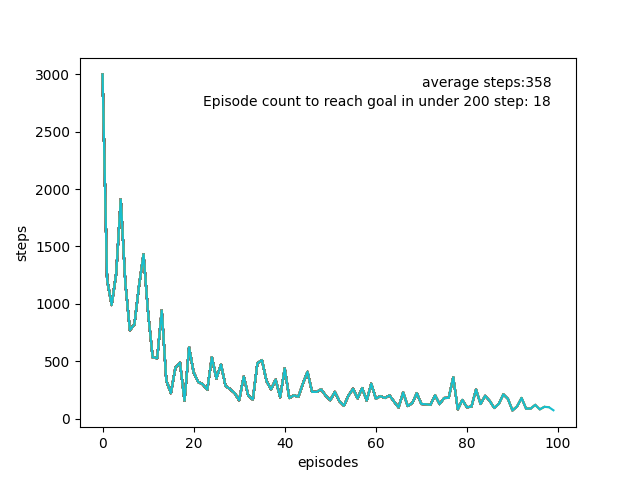
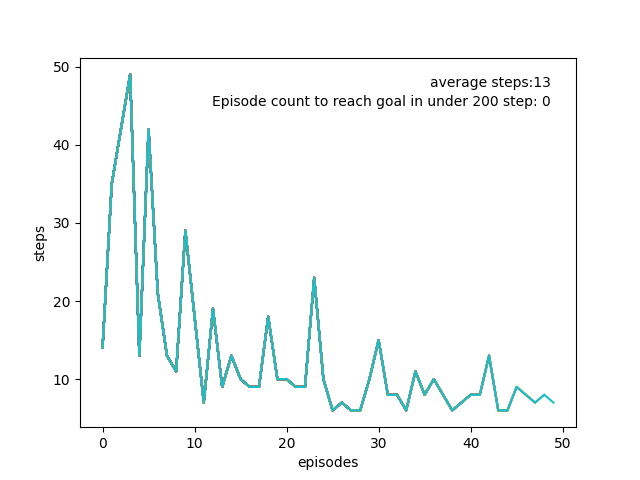
デバッグまでのテスト

diff --git a/simple_maze/q_learning.py b/simple_maze/q_learning.py
@@ -1,0 +1,113 @@
+import numpy as np
+import copy
+import datetime
+import matplotlib.pyplot as plt
+
+episode_list = [] 
+step_list = []
+
+class QLearning:
+    def __init__(self, maze):
+        self.maze = maze
+        row, col = self.maze.get_board_size()
+        self.num_state = row * col
+        self.action_list = [0, 1, 2, 3]
+        self.num_action = 4
+        self.Q = np.zeros((self.num_state, self.num_action))
+        self.state = self.get_state()
+        self.avg_annotation = None   
+        self.annotated_flag = False
+
+    def from_start(self):
+        self.maze.reset()
+        self.state = self.get_state()
+
+    def step(self, learning_rate, discount_rate, random_rate):
+        action = self.select_action(random_rate)
+        self.maze.move(action)
+        next_state = self.get_state() # 移動後の状態を取得
+        next_best_action = self.select_best_action()
+        self.Q[self.state][action] += learning_rate * (
+            self.reward() 
+            + discount_rate * self.Q[next_state][next_best_action]
+            - self.Q[self.state][action]
+        )
+        self.state = next_state # 現在の状態Sを更新
+
+    def get_state(self):
+        """2次元の迷路を1次元に軽量化し、状態として取得"""
+        _, col = self.maze.get_board_size()
+        x, y = self.maze.get_position()
+        return x * col + y
+    
+    def reward(self):
+        if self.maze.is_goal():
+            return 1
+        elif self.maze.is_penalty_point():
+             return -1
+        elif self.maze.is_start():
+            return -1
+        elif self.maze.is_goal():
+            return 1
+        else:
+            return -1
+
+
+    def select_action(self, random_rate=0.01):
+        if np.random.rand() < random_rate:
+            best_action = self.select_best_action()
+            random_action_list = [i for i in self.action_list if i != best_action]
+            return np.random.choice(random_action_list)
+        return self.select_best_action()
+    
+    def select_best_action(self):
+        return self.Q[self.state, :].argmax() # self.state行目の全ての列を選択
+    
+    def visualize_q_value(self):
+        board = copy.deepcopy(self.maze.board)
+        state = self.get_state()
+        for i in range(len(board)): 
+            for j in range(len(board[i])):
+                if board[i][j] == " ":
+                    best_direction = self.Q[state, :].argmax()
+                    if best_direction == 0:
+                        arrow = "↑"
+                    elif best_direction == 1:
+                        arrow = "↓"
+                    elif best_direction == 2:
+                        arrow = "←"
+                    else:
+                        arrow = "→"
+                    board[i][j] = arrow
+        return board
+    
+    def save_q_value(self, filename, episode, step):
+        board_with_arrows = self.visualize_q_value()
+        with open(filename, "w") as file:
+            file.write(f"実行時刻: {datetime.datetime.now()}\n")
+            file.write(f"episode: {episode}\n")
+            file.write(f"step: {step}\n\n")
+            for row in board_with_arrows:
+                file.write("".join(row) + "\n")
+    
+    def plot_learning_hisotry(self, filename, episode, step):
+        episode_list.append(episode)
+        step_list.append(step)
+        # 折れ線グラフを描画
+        plt.xlabel("episodes")
+        plt.ylabel("steps")
+        plt.plot(episode_list, step_list)
+        # 平均ステップ数を注釈に追加
+        avg_steps = f"average steps:{int(sum(step_list) / len(step_list))}"
+        if self.avg_annotation is not None:
+            self.avg_annotation.remove()
+        self.avg_annotation = plt.annotate(avg_steps, xy=(0.95, 0.95), xycoords="axes fraction", ha="right", va="top")
+        # 200step数以下に達したら一度だけ注釈を追加
+        if not self.annotated_flag:
+            for i, value in enumerate(step_list):
+                if value <= 200:
+                    annotation_text = f"Episode count to reach goal in under 200 step: {i}"
+                    plt.annotate(annotation_text, xy=(0.95, 0.9), xycoords="axes fraction", ha='right', va='top')
+                    self.annotated_flag = True
+                    break
+        plt.savefig(filename)

diff --git a/simple_maze/maze.py b/simple_maze/maze.py
@@ -1,0 +1,87 @@
+import copy
+
+BOARD = [
+    ["W", "W", "W",	"W", "W", "W", "W", "W", "W", "W", "W", "W", "W", "W", "W", "W", "W", "W", "W",	"W", "W", "W", "W"],
+    ["W", "S", " ", " ", " ", " ", " ",	" ", " ", " ", " ", "P", "W", "P", "W", "W", " ", " ", " ", "W", " ", "P", "W"],
+    ["W", " ", "W", "W", "W", "W", "W",	"W", "C", "W", "W", "W", " ", " ", "W", " ", " ", "W", "W", "W", " ", "W", "W"],
+    ["W", " ", " ", " ", "C", " ", " ",	" ", " ", " ", " ", " ", " ", " ", "W", " ", " ", " ", " ", " ", " ", " ", "W"],
+    ["W", " ", "W", "W", " ", "W", " ",	"W", "W", "W", "W", "C", "W", "W", " ", " ", "W", "W", "W", " ", " ", "W", "W"],
+    ["W", " ", "W", " ", " ", "W", "W",	"W", " ", "W", " ", " ", " ", " ", "W", " ", " ", "W", "P", " ", " ", " ", "W"],
+    ["W", " ", "W", " ", " ", " ", " ",	"C", " ", "W", "W", "W", " ", " ", "W", " ", "W", "W", "W", "W", " ", "W", "W"],
+    ["W", " ", "W", " ", " ", "W", "P",	"W", " ", " ", "W", " ", " ", "W", "W", " ", " ", "C", "W", " ", "C", " ", "W"],
+    ["W", " ", "W", " ", "W", "W", "W",	"W", " ", "W", "W", "W", "C", " ", "W", "W", "W", " ", "W", "W", "W", " ", "W"],
+    ["W", " ", "W", "C", " ", "W", " ",	"W", " ", "W", " ", " ", " ", "W", "W", " ", "W", " ", "W", " ", " ", " ", "W"],
+    ["W", " ", "W", " ", " ", " ", " ",	" ", "C", " ", "W", "W", " ", " ", "C", " ", " ", " ", " ", " ", " ", " ", "W"],
+    ["W", "C", " ", " ", "W", " ", "W",	" ", "W", " ", " ", "C", " ", " ", "W", " ", " ", "W", " ", " ", "W", "C", "W"],
+    ["W", "W", "W", " ", " ", " ", " ",	" ", "W", "W", " ", "W", "W", " ", "W", "W", "W", "W", " ", "W", "W", " ", "W"],
+    ["W", "P", " ", " ", "W", " ", "W",	" ", " ", "P", "W", "W", "P", " ", "W", "P", " ", " ", " ", "C", " ", "G", "W"],
+    ["W", "W", "W",	"W", "W", "W", "W", "W", "W", "W", "W", "W", "W", "W", "W", "W", "W", "W", "W",	"W", "W", "W", "W"],
+]
+
+class Maze:
+    def __init__(self):
+        self.board = BOARD
+        self.rows_count = len(BOARD)
+        self.cols_count = len(BOARD[0])
+        self.start_pos = None
+        self.goal_pos = None
+        for i in range(self.rows_count):
+            for j in range(self.cols_count):
+                if self.board[i][j] == "S":
+                    self.start_pos = (i, j)
+                elif self.board[i][j] == "G":
+                    self.goal_pos = (i, j)
+        self.agent_pos = self.start_pos
+    
+    def draw(self):
+        print("\x1b[2J\x1b[H") # 画面全体をクリア
+        for i in range(self.rows_count):
+            for j in range(self.cols_count):
+                if [i, j] == self.agent_pos:
+                    print("A", end="")
+                else:
+                    print(self.board[i][j], end="")
+            print(" ")  # 改行
+    
+    def get_board_size(self):
+        return self.rows_count, self.cols_count
+
+    def get_position(self):
+        return self.agent_pos
+    
+    def is_start(self):
+        x, y = self.start_pos
+        return self.board[x][y] == "S"
+
+    def is_goal(self):
+        x, y = self.agent_pos
+        return self.board[x][y] == "G"
+    
+    def is_checkpoint(self):
+        x, y = self.agent_pos
+        if self.board[x][y] == "C":
+            self.board[x][y] = " "
+            return True
+        return False
+
+    def is_penalty_point(self):
+        x, y = self.agent_pos
+        if self.board[x][y] == "P":
+            self.board[x][y] = " "
+            return True
+        return False
+    
+    def move(self, action):
+        x, y = self.agent_pos
+        if action == 0 and self.board[x-1][y] != "W":
+            self.agent_pos[0] -= 1
+        if action == 1 and self.board[x+1][y] != "W":
+            self.agent_pos[0] += 1
+        if action == 2 and self.board[x][y-1] != "W":
+            self.agent_pos[1] -= 1
+        if action == 3 and self.board[x][y+1] != "W":
+            self.agent_pos[1] += 1
+
+    def reset(self):
+        self.agent_pos = list(self.start_pos)
+        self.board = copy.deepcopy(BOARD) # このメソッドはここだけ変更

diff --git a/simple_maze/main.py b/simple_maze/main.py
@@ -1,0 +1,40 @@
+from maze import Maze
+
+import time   # 追加
+
+from q_learning import QLearning   # 追加
+
+def main():
+
+	  ## Q学習で必要な条件
+    
+    # 何回ゴールするか
+    EPISODE_MAX = 50
+    # ゴールまでの打ち切りステップ数
+    STEP_MAX = 3000
+    # 学習率
+    LEARNING_RATE = 0.2
+    # 割引率
+    DISCOUNT_RATE = 0.95
+    # 描画スピード
+    SLEEP_TIME = 0.015
+    
+    maze = Maze()
+    q_learn = QLearning(maze)   # ここから追加
+
+    for episode in range(EPISODE_MAX):
+        step = 0
+        q_learn.from_start()
+        random_rate = 0.01 + 0.9 / (1 + episode)
+        while not maze.is_goal() and step < STEP_MAX:
+            q_learn.step(LEARNING_RATE, DISCOUNT_RATE, random_rate)
+            maze.draw()
+            step += 1
+            time.sleep(SLEEP_TIME)
+        print(f"episode : {episode} step : {step} ")
+        print("\x1b[K")   # 行末までをクリア
+        q_learn.save_q_value(f"visualized_maze_data/q_value_episode_{episode}.txt", episode, step)   # 追加
+        q_learn.plot_learning_hisotry("step_transition_improved.png", episode, step)   # 追加
+    
+if __name__ == "__main__":
+    main()
